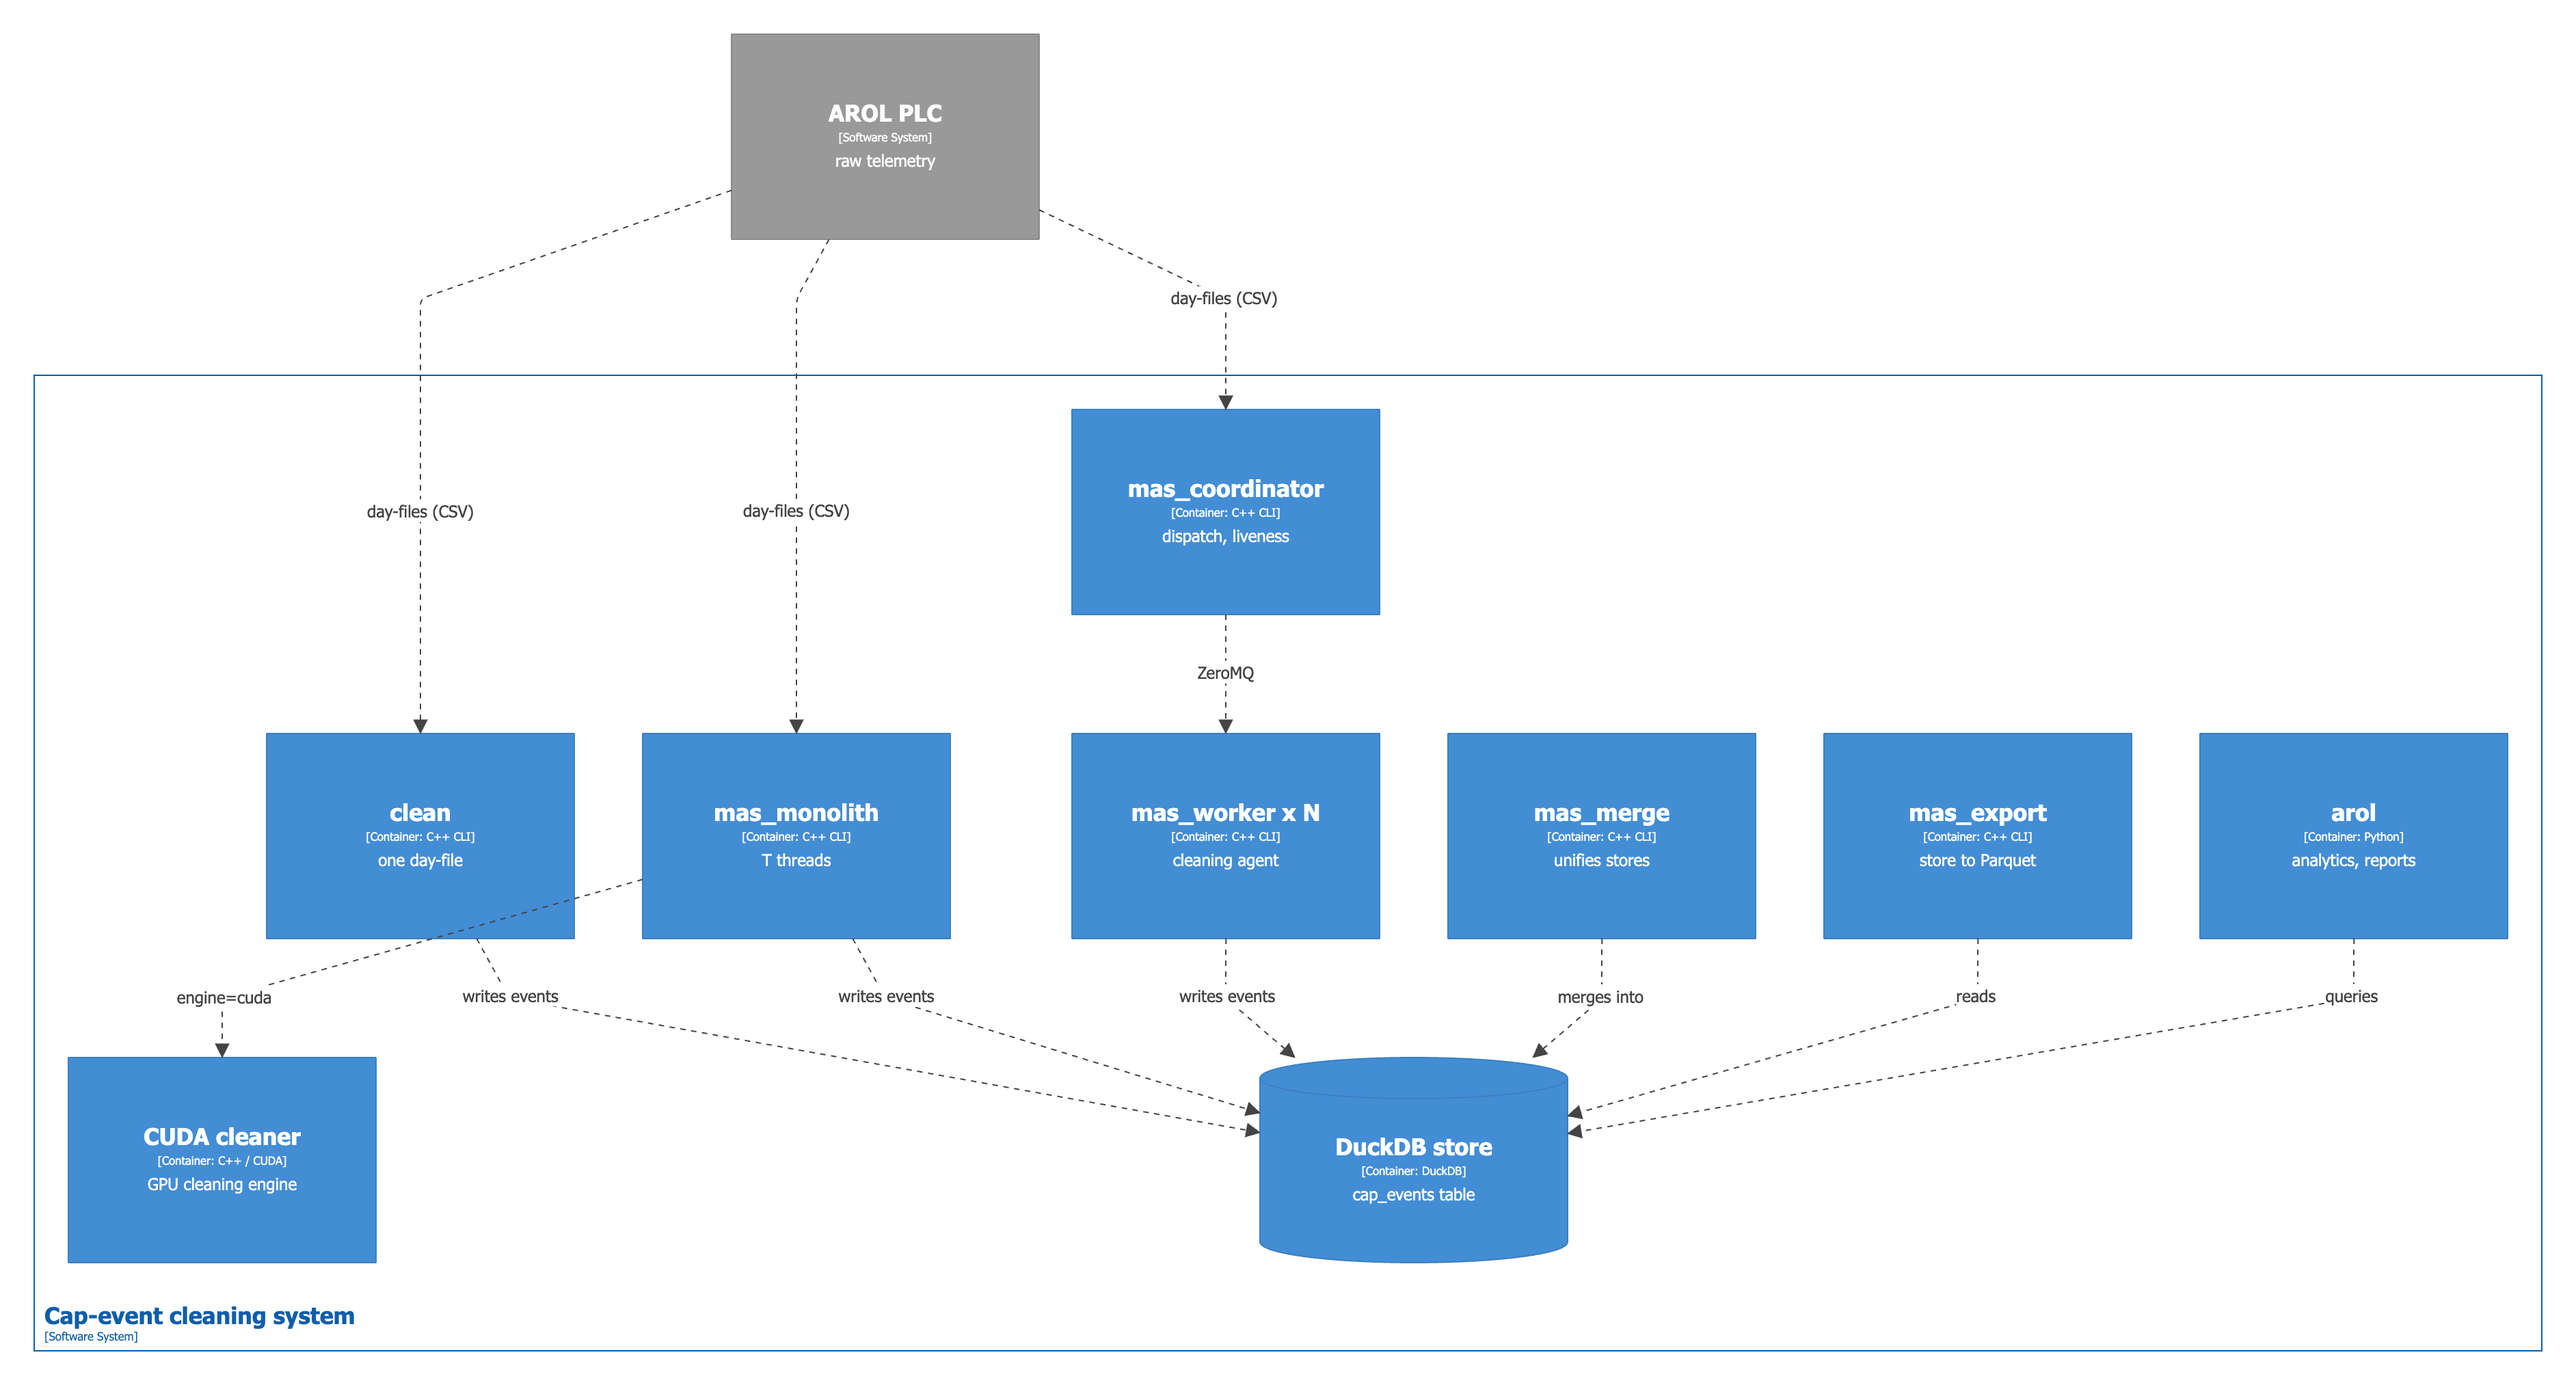
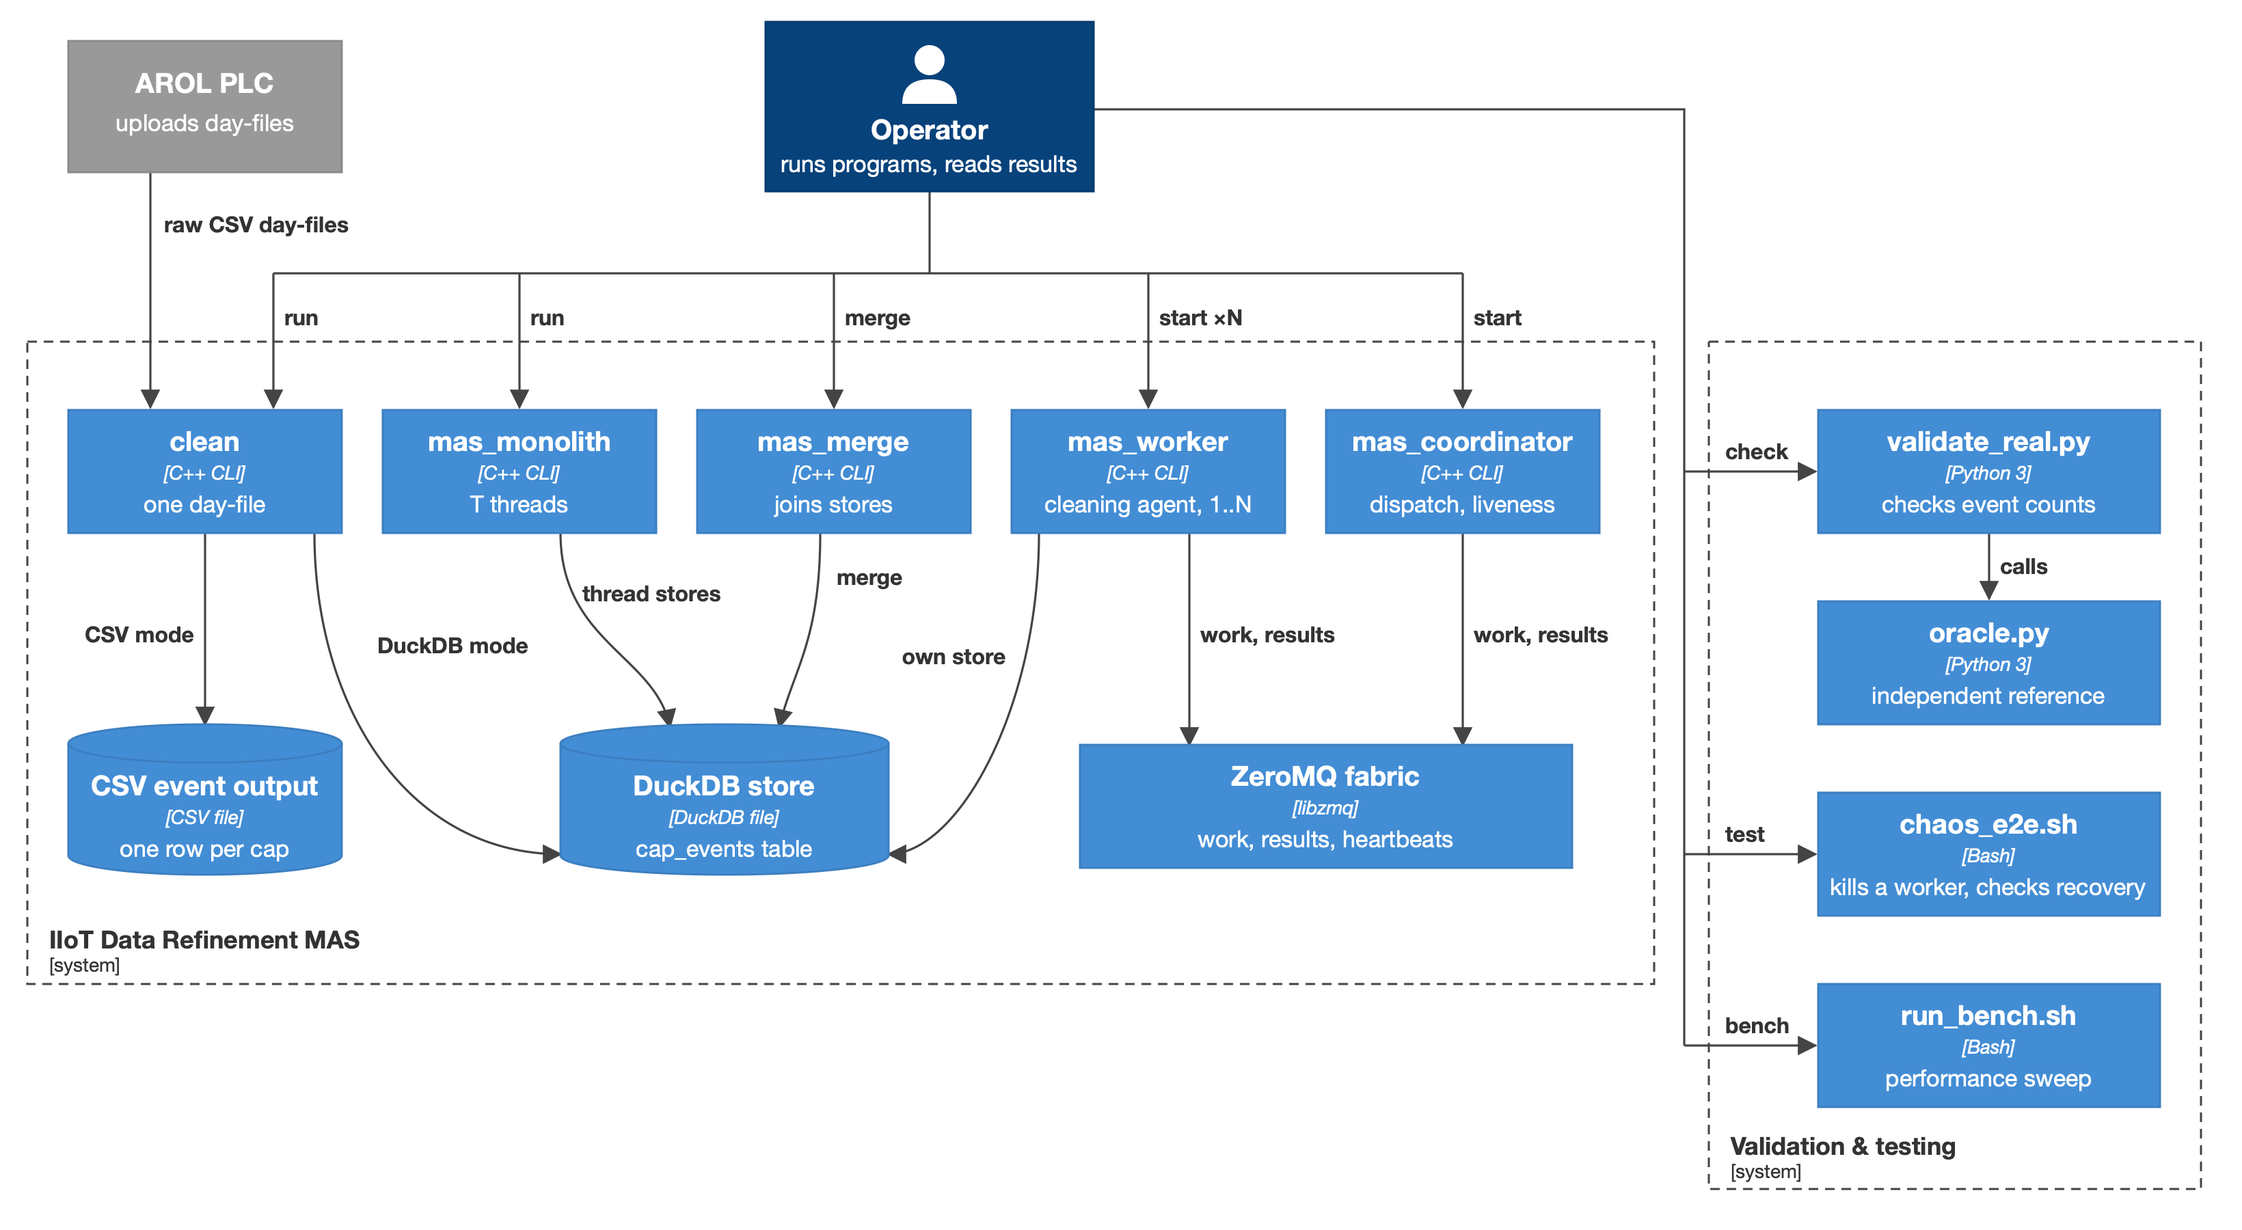
docs(diagrams): redraw the short C4 container figure to match the README
Same elements and relations as docs/diagrams/C4_Container.png (Operator, PLC,
the five C++ programs, DuckDB, CSV output, ZeroMQ fabric, and the validation
group), with one line of text per box and one- or two-word edge labels.

The SVG is now the source of the figure and the PNG is rendered from it, so the
Structurizr workspace, which described the previous drawing, is removed. The
figure caption in DOCUMENTATION.md points at the SVG.

diff --git a/DOCUMENTATION.md b/DOCUMENTATION.md
@@ -20,7 +20,7 @@ this system. No graph measurement is reported because none exists.
 
 ![Container diagram](docs/diagrams/C4_Container_Short.png)
 
-*Figure 1 - C4 (Context, Containers, Components, Code) container diagram (source: `docs/diagrams/structurizr/workspace.dsl`).*
+*Figure 1 - C4 (Context, Containers, Components, Code) container diagram (source: `docs/diagrams/C4_Container_Short.svg`).*
 
 The C++ code is built as four libraries. `mas_clean_core` holds the cleaning transform, the
 row parsing and the CSV reader, and uses only the C++ standard library. `mas_store` adds
